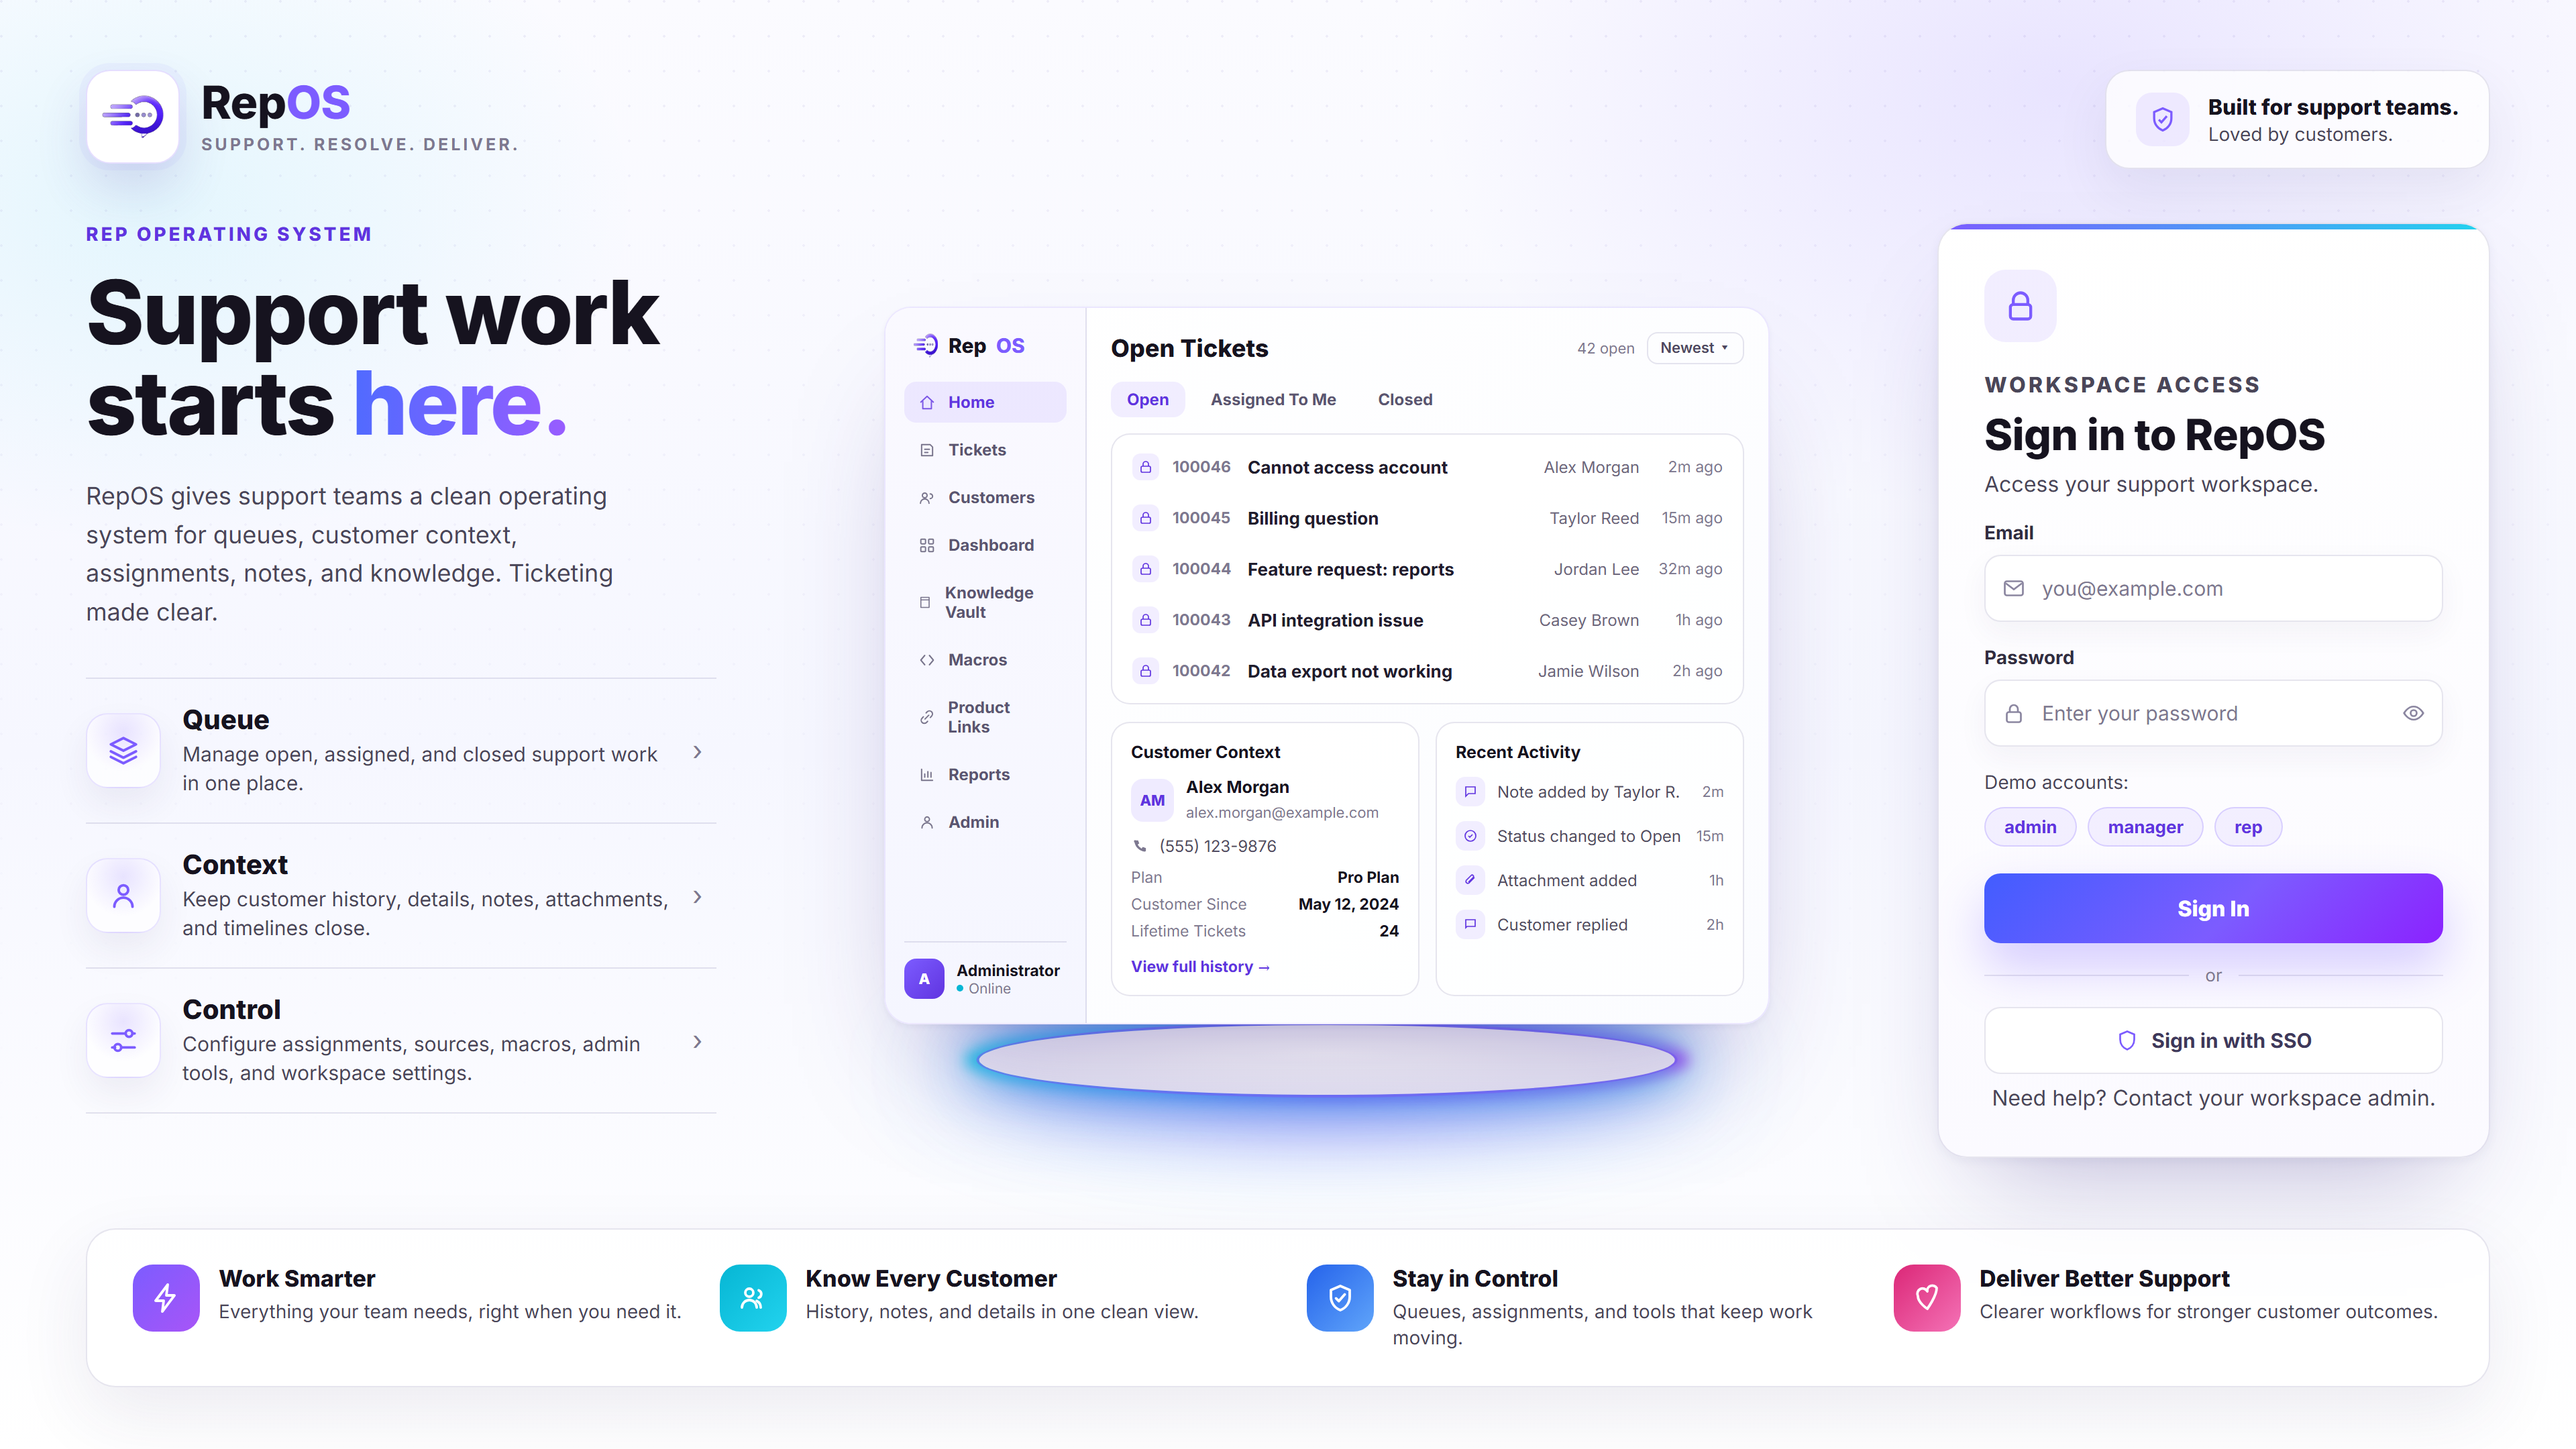
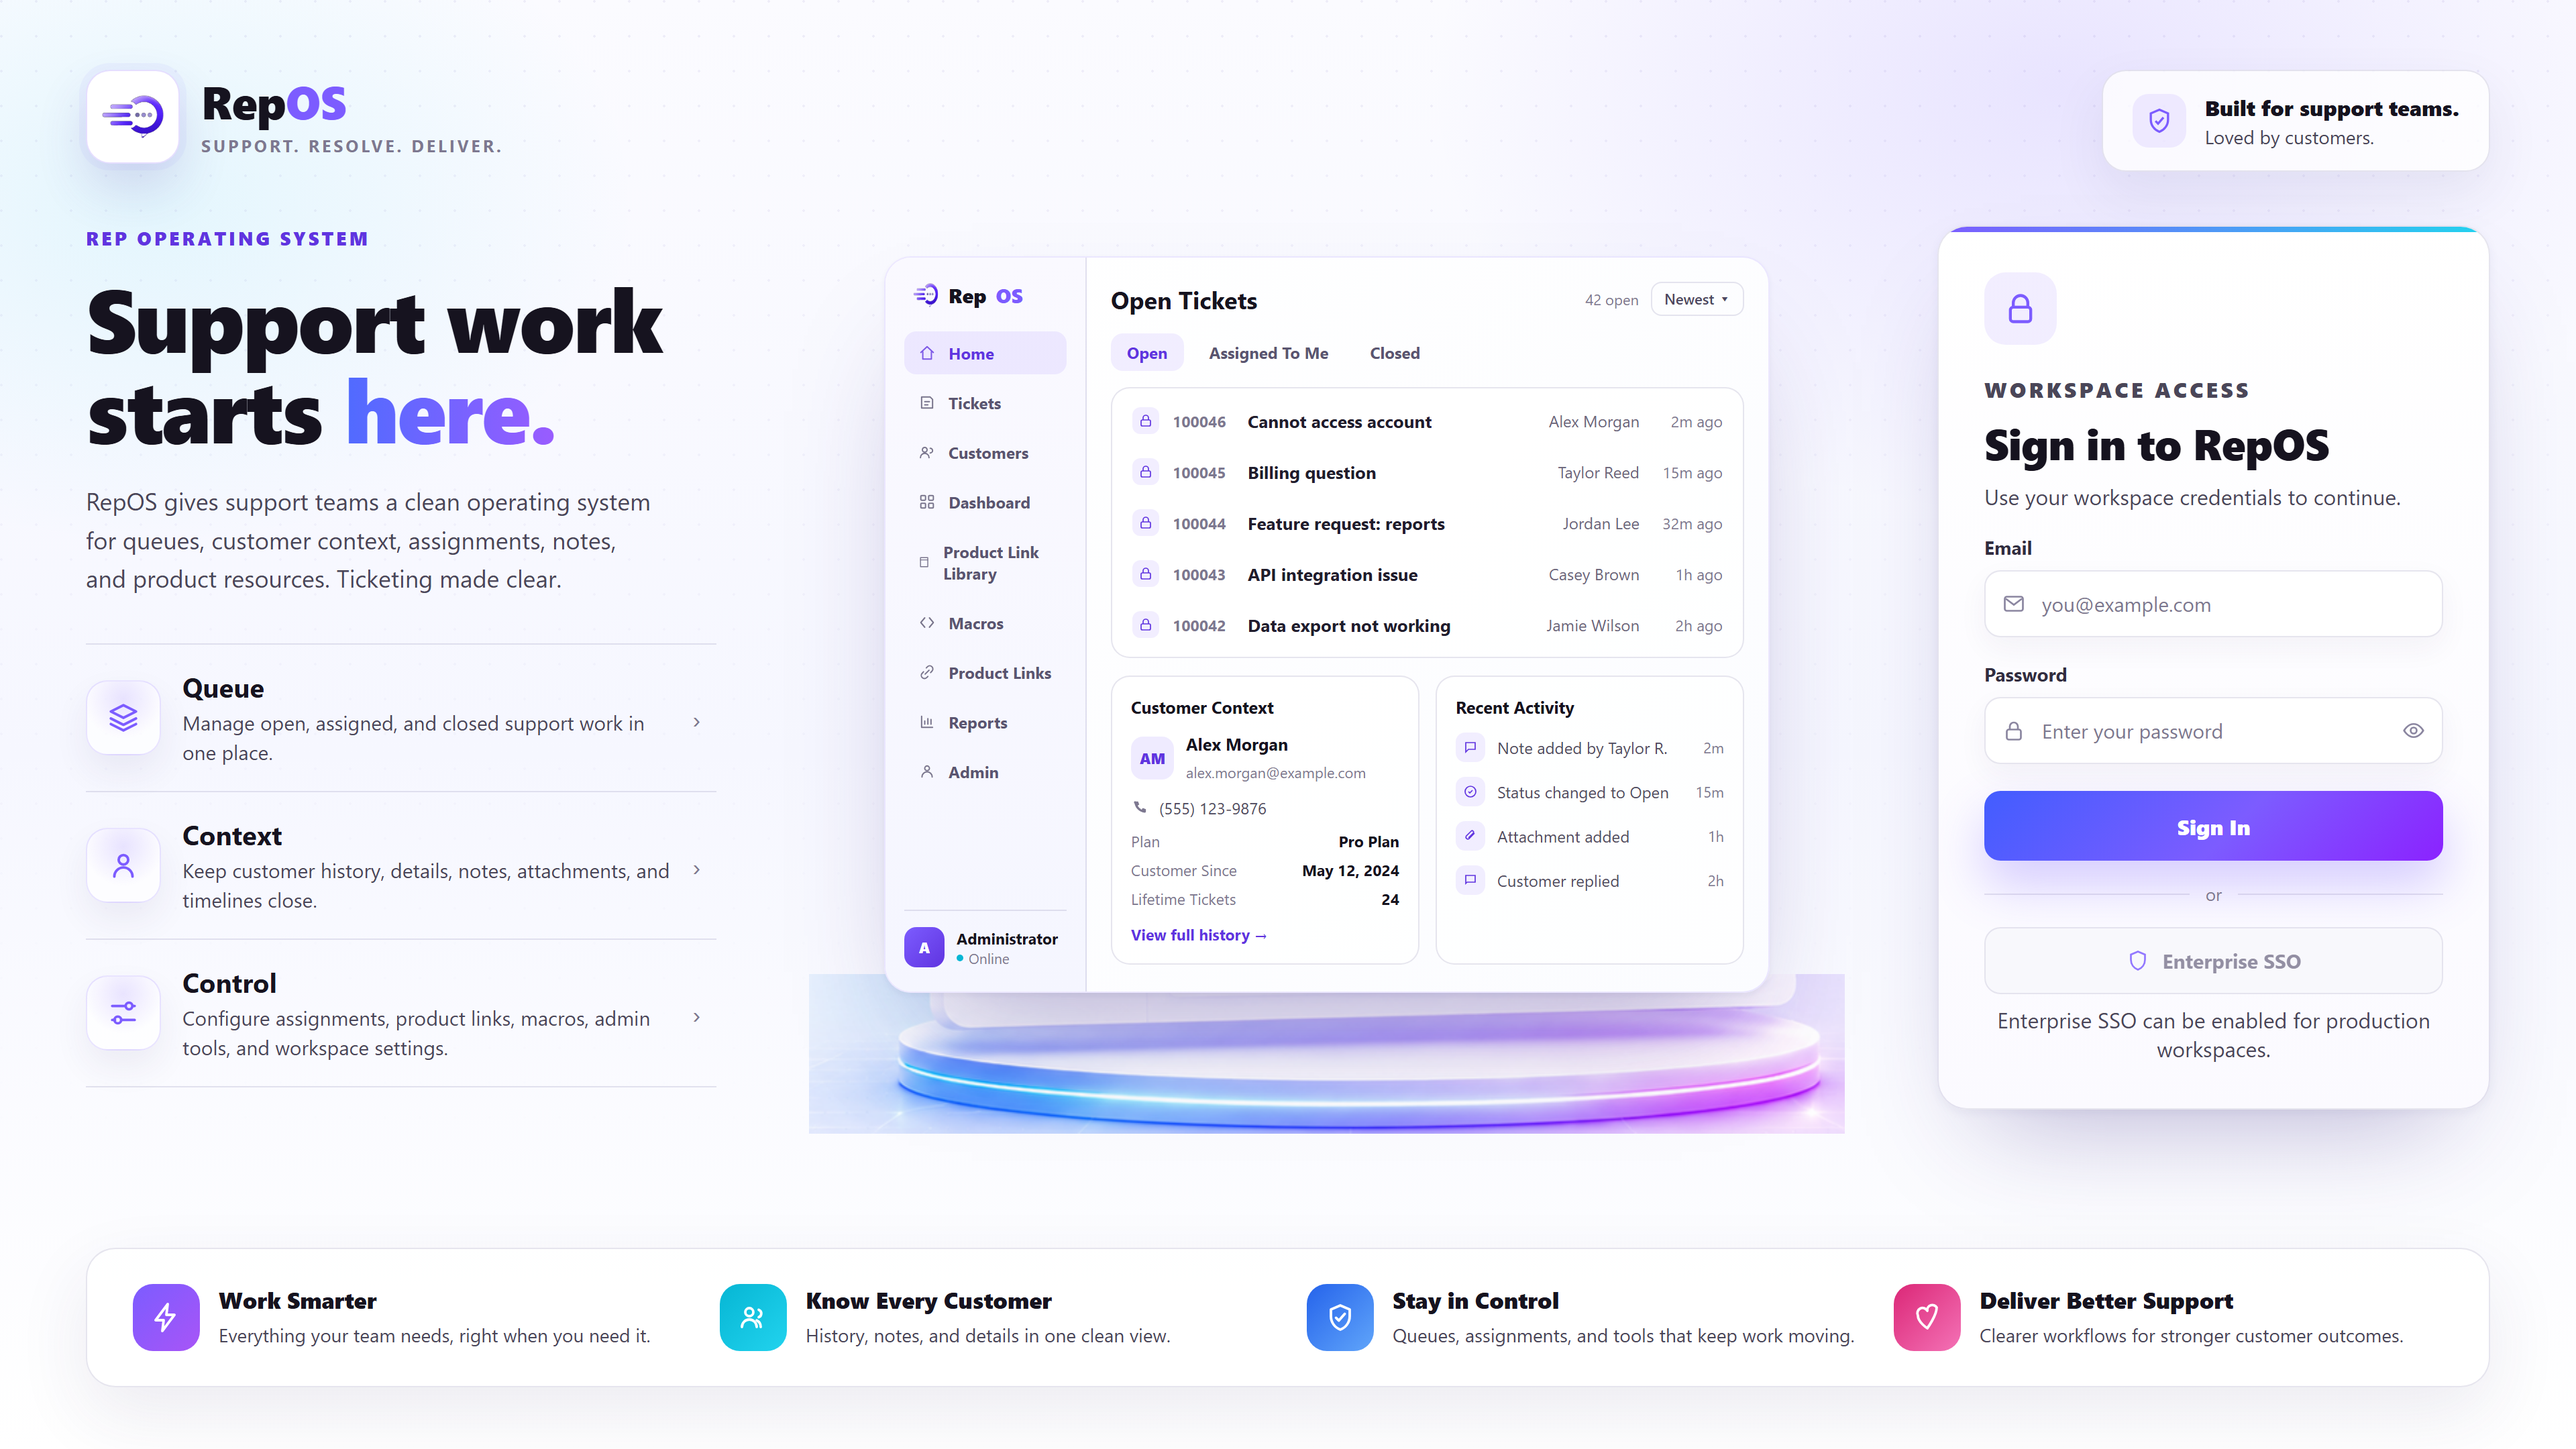
Refresh RepOS homepage hero artboard

diff --git a/tools/repos-homepage-artboard.html b/tools/repos-homepage-artboard.html
@@ -1,11 +1,8 @@
 <!doctype html>
-<!-- RepOS homepage artboard: fixed 1920x1080; export at 2x device-scale for a 3840x2160 PNG. -->
+<!-- RepOS homepage artboard: fixed 1920x1080; export at 2x device-scale for assets/repos-homepage-hero-3840x2160.png. Design reference only; the live homepage keeps responsive HTML/CSS. -->
 <html lang="en">
   <head>
     <meta charset="utf-8">
-    <link rel="preconnect" href="https://fonts.googleapis.com">
-    <link rel="preconnect" href="https://fonts.gstatic.com" crossorigin>
-    <link rel="stylesheet" href="https://fonts.googleapis.com/css2?family=Inter:wght@400;500;600;700;800;900&display=block">
     <style>
       :root {
         --accent: #7c5cff;
@@ -80,8 +77,10 @@
       .chev { color: var(--ink-3); font-size: 20px; }
 
       /* center dashboard */
-      .stage { position: relative; display: flex; align-items: center; justify-content: center; min-height: 700px; perspective: 1900px; }
-      .platform { position: absolute; left: 50%; bottom: 6px; width: 540px; height: 150px; transform: translateX(-50%); }
+      .stage { position: relative; display: flex; flex-direction: column; align-items: center; justify-content: center; min-height: 700px; }
+      .platform { width: 772px; margin-top: -14px; z-index: 1; }
+      .platform img { width: 100%; display: block; }
+      .platform--css { position: absolute; left: 50%; bottom: 6px; width: 540px; height: 150px; transform: translateX(-50%); }
       .platform .glow { position: absolute; left: 50%; bottom: 4px; width: 118%; height: 120px; transform: translateX(-50%); border-radius: 50%;
         background: radial-gradient(ellipse at 50% 50%, rgba(124,92,255,0.5), rgba(34,211,238,0.26) 48%, transparent 72%); filter: blur(34px); }
       .platform .ring { position: absolute; left: 50%; bottom: 40px; width: 100%; height: 60px; transform: translateX(-50%); border-radius: 50%;
@@ -91,7 +90,7 @@
         background: radial-gradient(ellipse at 50% 40%, #fff, #ecebf8 70%);
         box-shadow: 0 0 0 2px rgba(124,92,255,0.55), 0 0 18px rgba(34,211,238,0.6), 0 0 40px rgba(124,92,255,0.6); }
       .panel {
-        position: relative; z-index: 2; width: 660px; margin-bottom: 40px;
+        position: relative; z-index: 2; width: 660px; margin-bottom: 0;
         display: grid; grid-template-columns: 150px 1fr; overflow: hidden;
         border: 1px solid rgba(124,92,255,0.14); border-radius: 20px;
         background: linear-gradient(135deg, #ffffff, #fbfcff);
@@ -141,8 +140,8 @@
       .ctx-link { font-size: 11.5px; font-weight: 650; color: var(--accent-strong); }
       .act { display: flex; align-items: center; gap: 9px; margin-bottom: 11px; font-size: 12px; color: #514c61; }
       .act:last-child { margin-bottom: 0; }
-      .act .ai { width: 22px; height: 22px; flex: none; display: grid; place-items: center; border-radius: 7px; background: rgba(124,92,255,0.1); color: var(--accent-strong); }
-      .act .ai svg { width: 12px; height: 12px; fill: none; stroke: currentColor; stroke-width: 1.7; }
+      .act .activity-ico { width: 22px; height: 22px; flex: none; display: grid; place-items: center; border-radius: 7px; background: rgba(124,92,255,0.1); color: var(--accent-strong); }
+      .act .activity-ico svg { width: 12px; height: 12px; fill: none; stroke: currentColor; stroke-width: 1.7; }
       .act em { margin-left: auto; font-style: normal; font-size: 11px; color: var(--ink-3); }
 
       /* sign-in card */
@@ -160,15 +159,13 @@
       .fld .inp svg { width: 18px; height: 18px; margin: 0 12px; fill: none; stroke: #8b86a0; stroke-width: 1.8; }
       .fld .inp .ph { color: var(--ink-3); font-size: 15px; }
       .fld .inp .eye { margin-left: auto; }
-      .demo { margin-top: 18px; font-size: 14px; color: var(--ink-2); }
-      .pills { display: flex; gap: 8px; margin-top: 10px; }
-      .pills span { padding: 6px 14px; border: 1px solid rgba(124,92,255,0.22); border-radius: 999px; background: rgba(124,92,255,0.08); color: var(--accent-strong); font-size: 13px; font-weight: 700; }
       .si-btn { height: 52px; margin-top: 20px; display: grid; place-items: center; border-radius: 12px; color: #fff; font-size: 16px; font-weight: 800;
         background: linear-gradient(135deg, #425dff, #7c5cff 54%, #8b22ff); box-shadow: 0 18px 38px rgba(124,92,255,0.3); }
       .si-or { display: flex; align-items: center; gap: 12px; margin: 16px 0; color: var(--ink-3); font-size: 13px; }
       .si-or::before, .si-or::after { content: ""; flex: 1; height: 1px; background: var(--line); }
       .sso { height: 50px; display: flex; align-items: center; justify-content: center; gap: 9px; border: 1px solid var(--line); border-radius: 12px; background: #fff; font-size: 15px; font-weight: 700; color: #3e385a; }
       .sso svg { width: 18px; height: 18px; fill: none; stroke: var(--accent); stroke-width: 1.8; }
+      .sso.disabled { color: var(--ink-3); background: #f8f8fc; opacity: 0.82; }
       .si-help { margin-top: 16px; text-align: center; font-size: 13px; color: var(--ink-3); }
 
       /* benefits */
@@ -209,7 +206,7 @@
         <section class="hero">
           <p class="eyebrow">REP OPERATING SYSTEM</p>
           <h1>Support work starts <span>here.</span></h1>
-          <p class="hero-body">RepOS gives support teams a clean operating system for queues, customer context, assignments, notes, and knowledge. Ticketing made clear.</p>
+          <p class="hero-body">RepOS gives support teams a clean operating system for queues, customer context, assignments, notes, and product resources. Ticketing made clear.</p>
           <div class="features">
             <div class="feature">
               <span class="f-ico"><svg viewBox="0 0 24 24"><path d="M12 3 21 7.5 12 12 3 7.5 12 3Z"></path><path d="M3 12.5 12 17l9-4.5"></path><path d="M3 16.5 12 21l9-4.5"></path></svg></span>
@@ -223,7 +220,7 @@
             </div>
             <div class="feature">
               <span class="f-ico"><svg viewBox="0 0 24 24"><path d="M4 7h9"></path><path d="M19 7h1"></path><circle cx="16" cy="7" r="2.4"></circle><path d="M4 17h2"></path><path d="M11 17h9"></path><circle cx="8" cy="17" r="2.4"></circle></svg></span>
-              <div><h3>Control</h3><p>Configure assignments, sources, macros, admin tools, and workspace settings.</p></div>
+              <div><h3>Control</h3><p>Configure assignments, product links, macros, admin tools, and workspace settings.</p></div>
               <span class="chev">›</span>
             </div>
           </div>
@@ -231,7 +228,6 @@
 
         <!-- center dashboard -->
         <section class="stage">
-          <div class="platform"><span class="glow"></span><span class="ring"></span><span class="disc"></span></div>
           <div class="panel">
             <div class="pl-side">
               <div class="pl-logo"><img src="../assets/repos-mark.png" alt="">Rep<span>OS</span></div>
@@ -239,7 +235,7 @@
               <a><svg viewBox="0 0 24 24"><path d="M5 5h11l3 3v11H5z"></path><path d="M9 11h6M9 15h4"></path></svg>Tickets</a>
               <a><svg viewBox="0 0 24 24"><circle cx="9" cy="9" r="3"></circle><path d="M3.5 19a5.5 5.5 0 0 1 11 0"></path><path d="M16 7a3 3 0 0 1 0 6"></path></svg>Customers</a>
               <a><svg viewBox="0 0 24 24"><rect x="4" y="4" width="6" height="6" rx="1"></rect><rect x="14" y="4" width="6" height="6" rx="1"></rect><rect x="4" y="14" width="6" height="6" rx="1"></rect><rect x="14" y="14" width="6" height="6" rx="1"></rect></svg>Dashboard</a>
-              <a><svg viewBox="0 0 24 24"><path d="M5 4h13v16H5z"></path><path d="M5 8h13"></path></svg>Knowledge Vault</a>
+              <a><svg viewBox="0 0 24 24"><path d="M5 4h13v16H5z"></path><path d="M5 8h13"></path></svg>Product Link Library</a>
               <a><svg viewBox="0 0 24 24"><path d="m9 6-5 6 5 6"></path><path d="m15 6 5 6-5 6"></path></svg>Macros</a>
               <a><svg viewBox="0 0 24 24"><path d="M9.5 14.5 14.5 9.5"></path><path d="M11 6.5 12.5 5a4 4 0 0 1 5.7 5.7L16.5 12.5"></path><path d="M13 17.5 11.5 19a4 4 0 0 1-5.7-5.7L7.5 11.5"></path></svg>Product Links</a>
               <a><svg viewBox="0 0 24 24"><path d="M5 19V5M5 19h14M9 15v-4M13 15V8M17 15v-6"></path></svg>Reports</a>
@@ -269,14 +265,15 @@
                 </div>
                 <div class="pl-card">
                   <b>Recent Activity</b>
-                  <div class="act"><span class="ai"><svg viewBox="0 0 24 24"><path d="M5 5h14v10H9l-4 4z"></path></svg></span>Note added by Taylor R.<em>2m</em></div>
-                  <div class="act"><span class="ai"><svg viewBox="0 0 24 24"><circle cx="12" cy="12" r="8"></circle><path d="m9 12 2 2 4-4"></path></svg></span>Status changed to Open<em>15m</em></div>
-                  <div class="act"><span class="ai"><svg viewBox="0 0 24 24"><path d="M18 8 9.5 16.5a3 3 0 0 1-4-4L13 5a2 2 0 0 1 3 3l-7 7"></path></svg></span>Attachment added<em>1h</em></div>
-                  <div class="act"><span class="ai"><svg viewBox="0 0 24 24"><path d="M5 5h14v10H7l-2 2z"></path></svg></span>Customer replied<em>2h</em></div>
+                  <div class="act"><span class="activity-ico"><svg viewBox="0 0 24 24"><path d="M5 5h14v10H9l-4 4z"></path></svg></span>Note added by Taylor R.<em>2m</em></div>
+                  <div class="act"><span class="activity-ico"><svg viewBox="0 0 24 24"><circle cx="12" cy="12" r="8"></circle><path d="m9 12 2 2 4-4"></path></svg></span>Status changed to Open<em>15m</em></div>
+                  <div class="act"><span class="activity-ico"><svg viewBox="0 0 24 24"><path d="M18 8 9.5 16.5a3 3 0 0 1-4-4L13 5a2 2 0 0 1 3 3l-7 7"></path></svg></span>Attachment added<em>1h</em></div>
+                  <div class="act"><span class="activity-ico"><svg viewBox="0 0 24 24"><path d="M5 5h14v10H7l-2 2z"></path></svg></span>Customer replied<em>2h</em></div>
                 </div>
               </div>
             </div>
           </div>
+          <div class="platform"><img src="../assets/repos-podium.png" alt=""></div>
         </section>
 
         <!-- sign-in -->
@@ -284,7 +281,7 @@
           <div class="si-ico"><svg viewBox="0 0 24 24"><path d="M7 11V8a5 5 0 0 1 10 0v3"></path><rect x="5" y="11" width="14" height="10" rx="2"></rect></svg></div>
           <p class="si-eyebrow">WORKSPACE ACCESS</p>
           <h2>Sign in to RepOS</h2>
-          <p>Access your support workspace.</p>
+          <p>Use your workspace credentials to continue.</p>
           <div class="fld">
             <label>Email</label>
             <div class="inp"><svg viewBox="0 0 24 24"><rect x="3" y="5" width="18" height="14" rx="2"></rect><path d="m4 7 8 6 8-6"></path></svg><span class="ph">you@example.com</span></div>
@@ -293,12 +290,10 @@
             <label>Password</label>
             <div class="inp"><svg viewBox="0 0 24 24"><rect x="5" y="11" width="14" height="10" rx="2"></rect><path d="M8 11V8a4 4 0 0 1 8 0v3"></path></svg><span class="ph">Enter your password</span><svg class="eye" viewBox="0 0 24 24"><path d="M2.5 12S6 5.5 12 5.5 21.5 12 21.5 12 18 18.5 12 18.5 2.5 12 2.5 12Z"></path><circle cx="12" cy="12" r="3"></circle></svg></div>
           </div>
-          <div class="demo">Demo accounts:</div>
-          <div class="pills"><span>admin</span><span>manager</span><span>rep</span></div>
           <div class="si-btn">Sign In</div>
           <div class="si-or">or</div>
-          <div class="sso"><svg viewBox="0 0 24 24"><path d="M12 3 19 6v5c0 4.6-2.8 8.4-7 10-4.2-1.6-7-5.4-7-10V6l7-3Z"></path></svg>Sign in with SSO</div>
-          <p class="si-help">Need help? Contact your workspace admin.</p>
+          <div class="sso disabled"><svg viewBox="0 0 24 24"><path d="M12 3 19 6v5c0 4.6-2.8 8.4-7 10-4.2-1.6-7-5.4-7-10V6l7-3Z"></path></svg>Enterprise SSO</div>
+          <p class="si-help">Enterprise SSO can be enabled for production workspaces.</p>
         </aside>
       </div>
 
